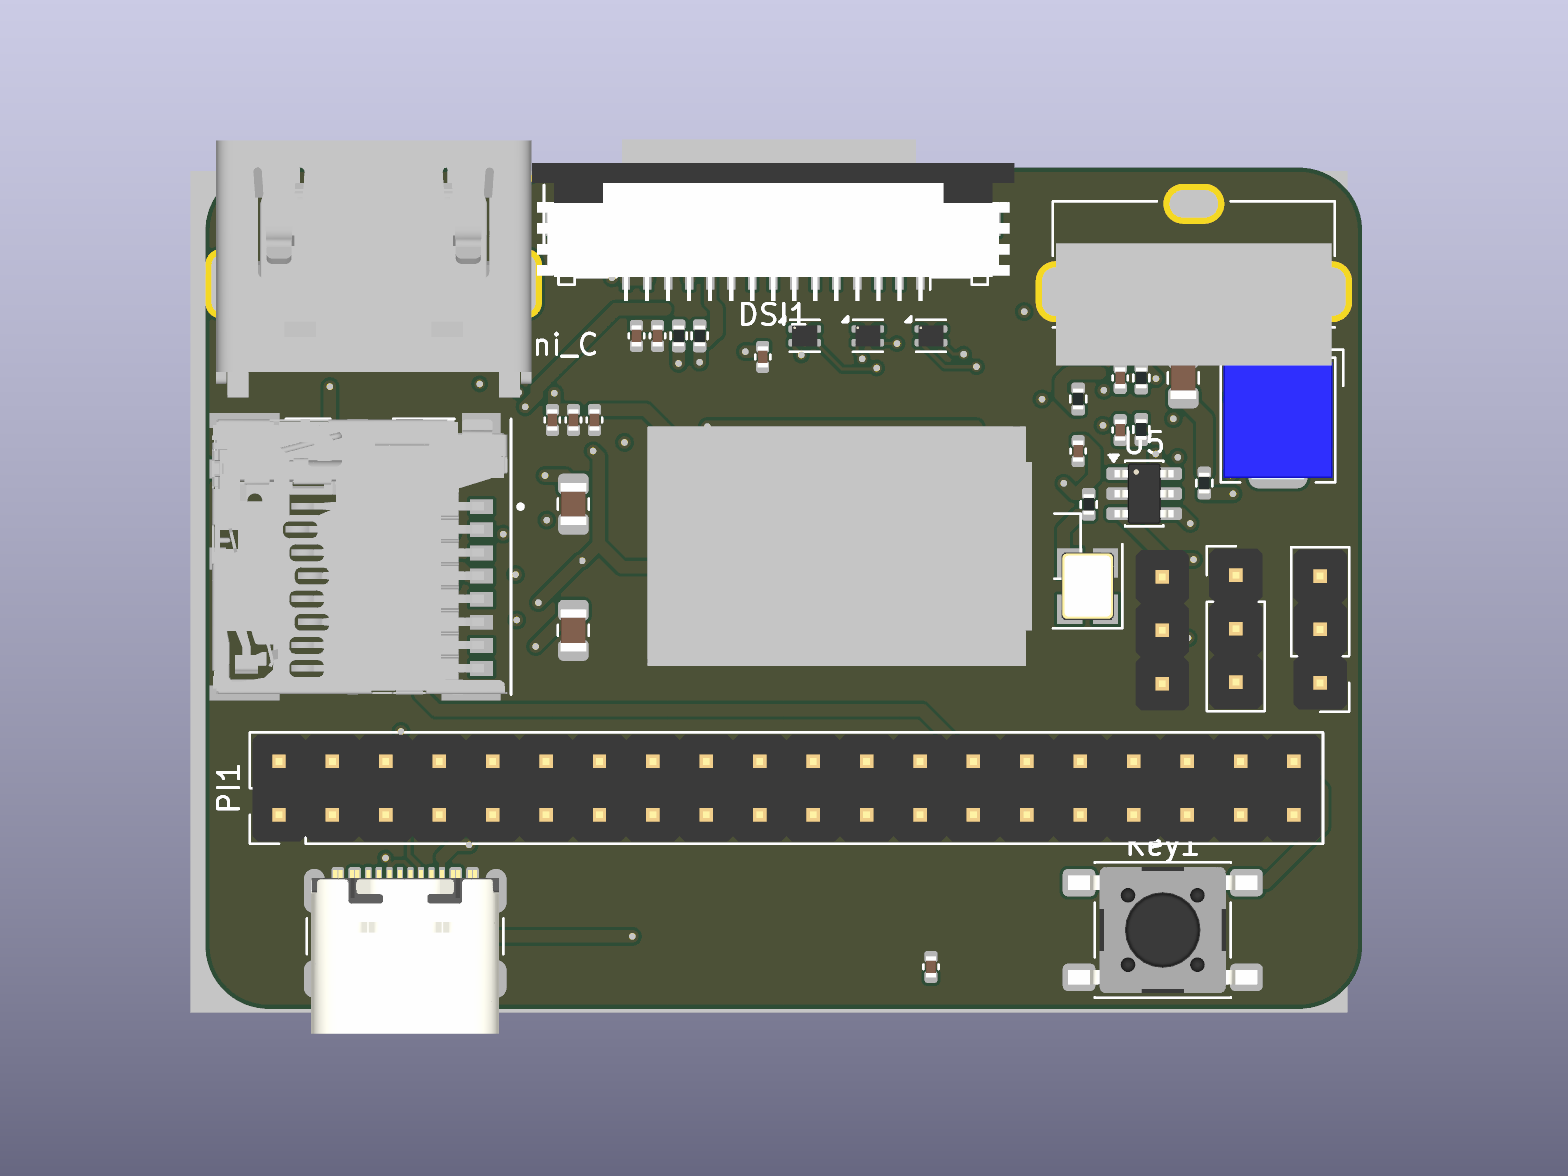
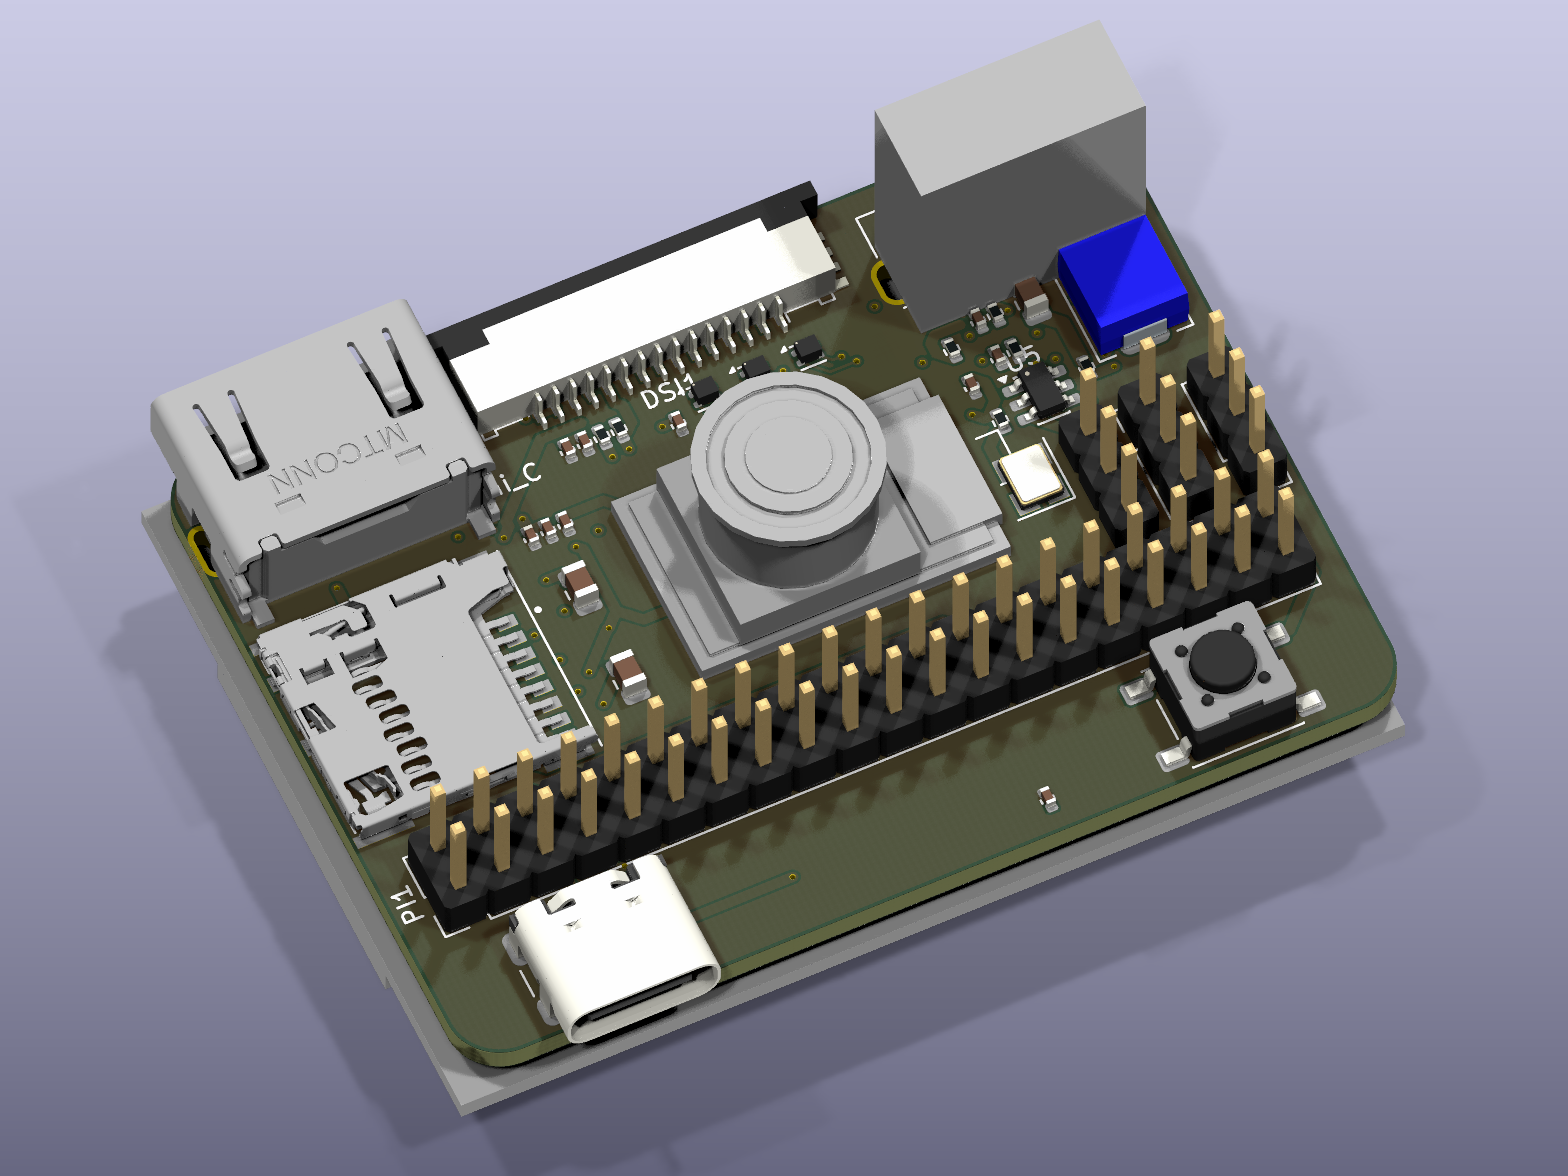
fix(examples/002_cm5_camera): render the README PCB as a dimetric 3D view
Use an orthogonal high-quality camera with a slight isometric tilt so the
hero PNG shows connector height instead of a flat top-down shot.

diff --git a/examples/002_cm5_camera/helper.py b/examples/002_cm5_camera/helper.py
@@ -2147,16 +2147,19 @@ def render_pcb(path: str = f"{PROJECT_NAME}.png") -> bool:
             "render",
             "--output",
             relative_png,
-            "--side",
-            "top",
             "--width",
             "1600",
             "--height",
             "1200",
             "--quality",
-            "basic",
+            "high",
             "--background",
             "opaque",
+            "--rotate",
+            "-30,0,25",
+            "--zoom",
+            "0.9",
+            "--floor",
             relative_pcb,
         ],
         cwd=root,
